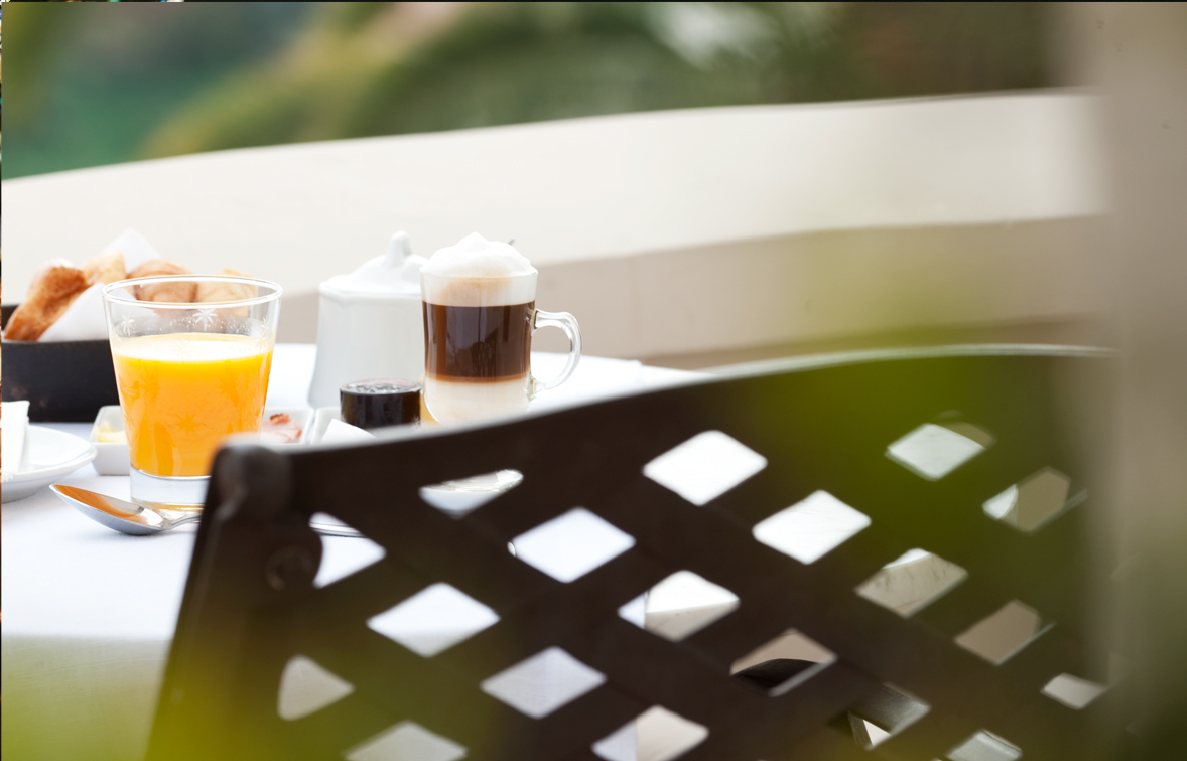
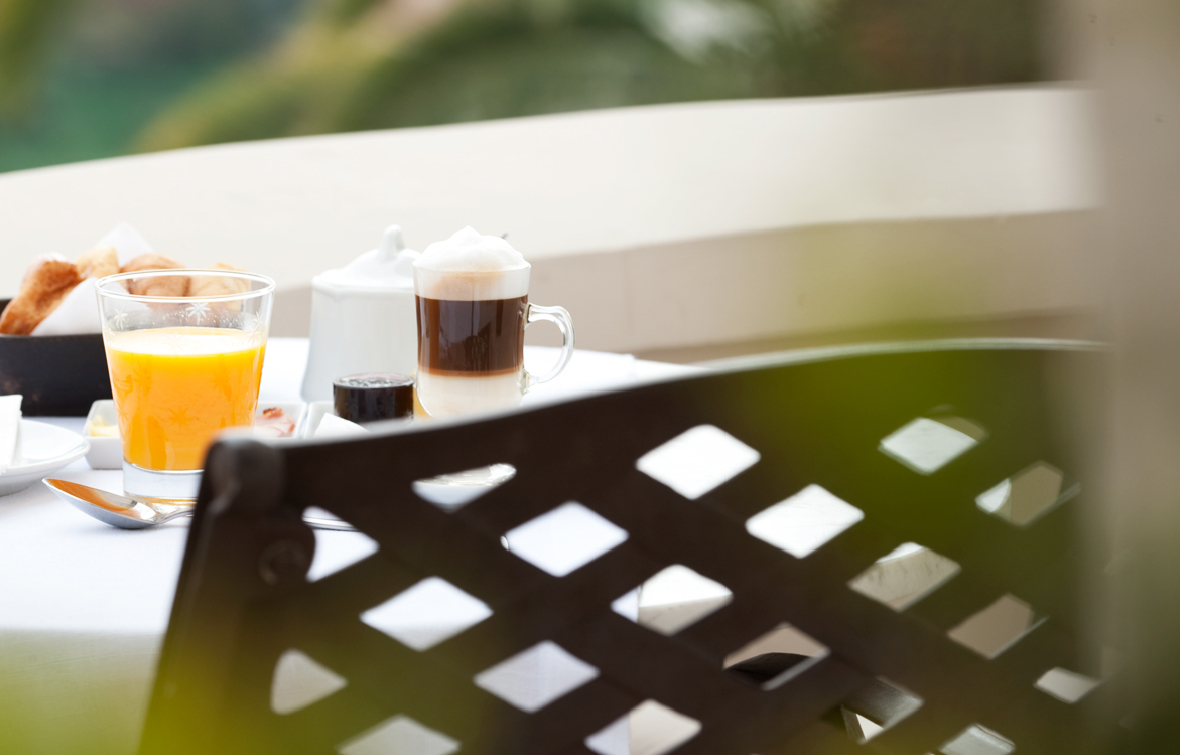
updates

diff --git a/src/_styles/pages/_hotel.scss b/src/_styles/pages/_hotel.scss
@@ -300,12 +300,13 @@
             &__image {
                 width: 100%;
                 overflow: hidden;
-                height: 48.5vh;
+                height: 0;
                 margin-bottom: 20px;
                 position: relative;
+                padding-bottom: 48%;
 
                 @include mq(sm) {
-                    height: 50.5vh;
+                    padding-bottom: 56.5%;
                     margin-bottom: 0;
                 }
 
@@ -322,11 +323,11 @@
                 }
 
                 &--tradicional {
-                    height: 36.25vh;
+                    padding-bottom: 56.5%;
                 }
 
                 &--premium-superior {
-                    height: 36.25vh;
+                    padding-bottom: 56.5%;
                 }
 
                 img {
@@ -345,6 +346,7 @@
                 text-align: center;
                 padding: 40px 20px 150px 20px;
                 height: auto;
+                min-height: 54vh;
 
                 &--premium {
                     margin-bottom: 20px;
@@ -574,8 +576,9 @@
                     }
 
                     img {
-                        height: auto;
-                        width: 100%;
+                        height: 100%;
+                        width:auto;
+                        min-width: 100%;
                     }
                 }
 

diff --git a/src/_modules/header/header.scss b/src/_modules/header/header.scss
@@ -34,6 +34,10 @@
             height: 7vh;
         }
 
+        @include customMq(1600px) {
+            height: 5vh;
+        }
+
         img {
             width: auto;
             height: 100%;
